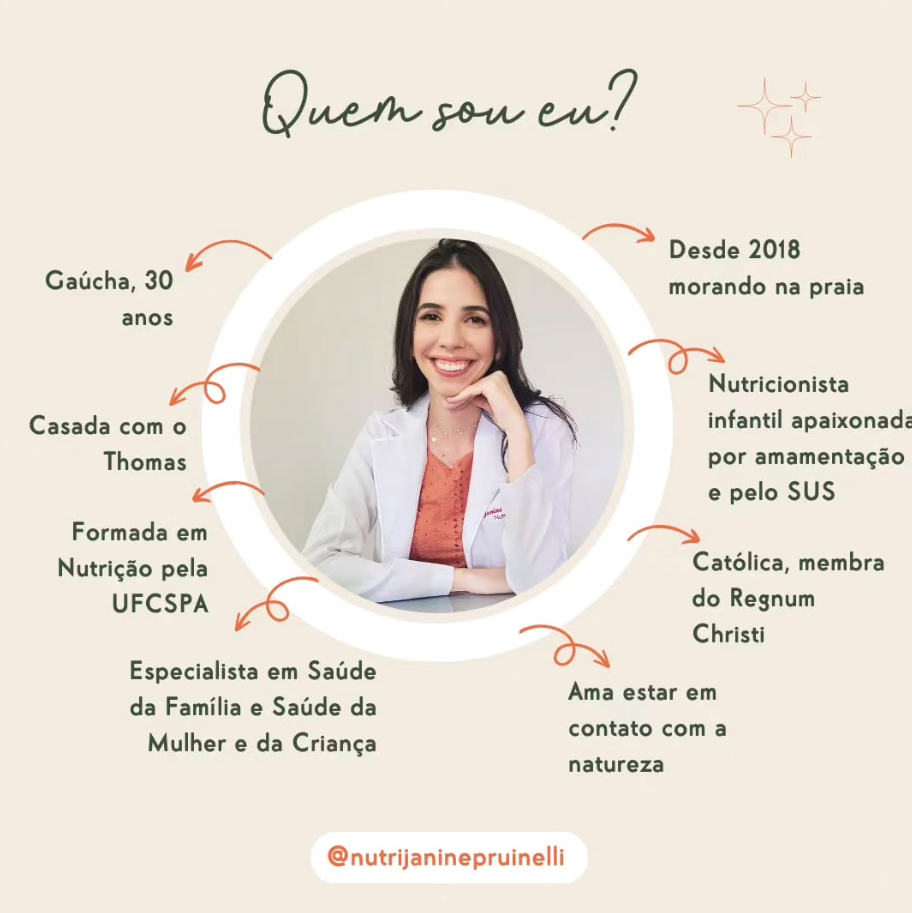
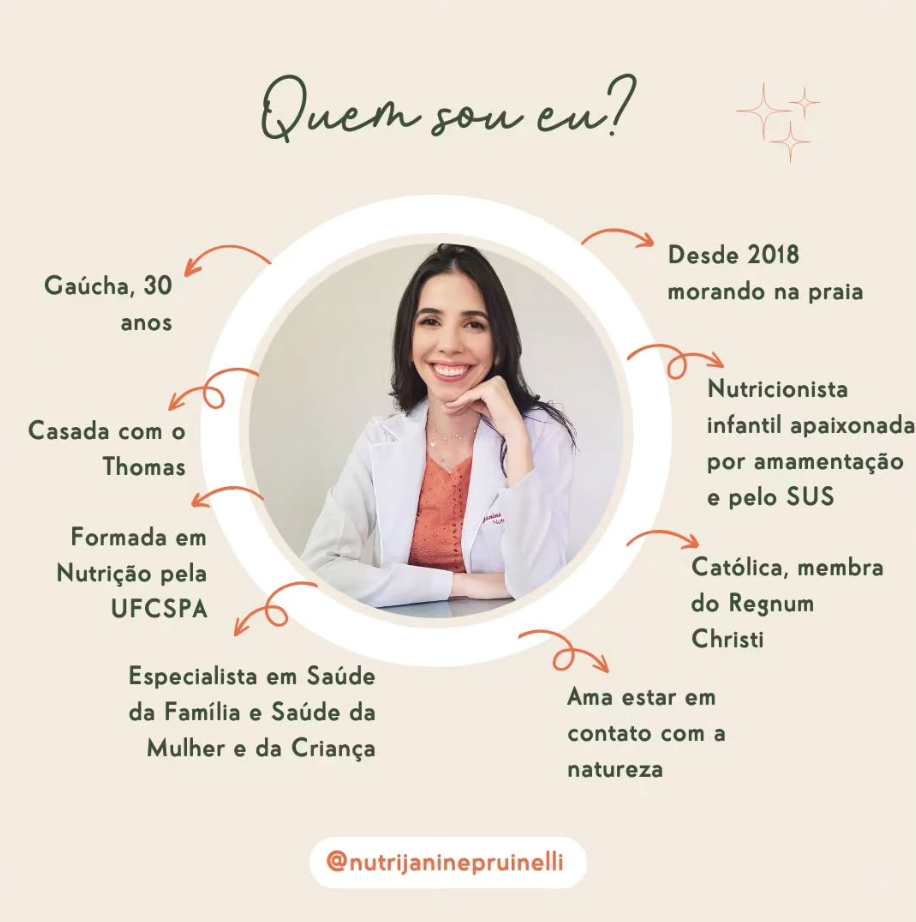
refinamentos v2
Quem-sou-eu incluído.
Meta dados corrigidos, retirado Cechinatto

diff --git a/index.html b/index.html
@@ -3,10 +3,10 @@
  <head>
   <meta charset="utf-8"/>
   <meta content="width=device-width, initial-scale=1.0" name="viewport"/>
-  <meta content="Odontopediatria l&uacute;dica e acolhedora com a Janine Pruinelli, especialista em crian&ccedil;as em Balne&aacute;rio Cambori&uacute;." name="description"/>
+  <meta content="Nutri do seu filho e consultora de amamentação | Promoção da saúde começa na infância." name="description"/>
   <link href="img/icons/favicon.ico" rel="icon" type="image/icon"/>
   <title>
-   Janine Cechinatto | Nutricionista Infantil, atendimento online e presencial em Imbituba e Garopaba;
+   Janine Pruinelli | Nutricionista Infantil, atendimento online e presencial em Imbituba e Garopaba;
   </title>
   <style>
    html, body {
@@ -357,14 +357,14 @@ img[src*="logo-gabi.jpeg"] {
    </div>
   </header>
   <main>
-  <!-- 
+   
    <div class="banner-principal fade-slide">
-    <img alt="Logo Janine Pruinelli" src="img/Janine Pruinelli IDENTIDADE VISUAL10.png"/>
+    <img alt="Logo Janine Pruinelli" src="img/Janine Pruinelli IDENTIDADE VISUAL26.png"/>
    </div>
-  -->
+  
    <div class="section">
     <div class="img fade-slide">
-     <img alt="Nutri Janine" src="img/Janine Pruinelli IDENTIDADE VISUAL26.png"/>
+     <img alt="Nutri Janine" src="img/quem-sou-eu.png"/>
     </div>
     <div class="content fade-slide">
      <h1>
